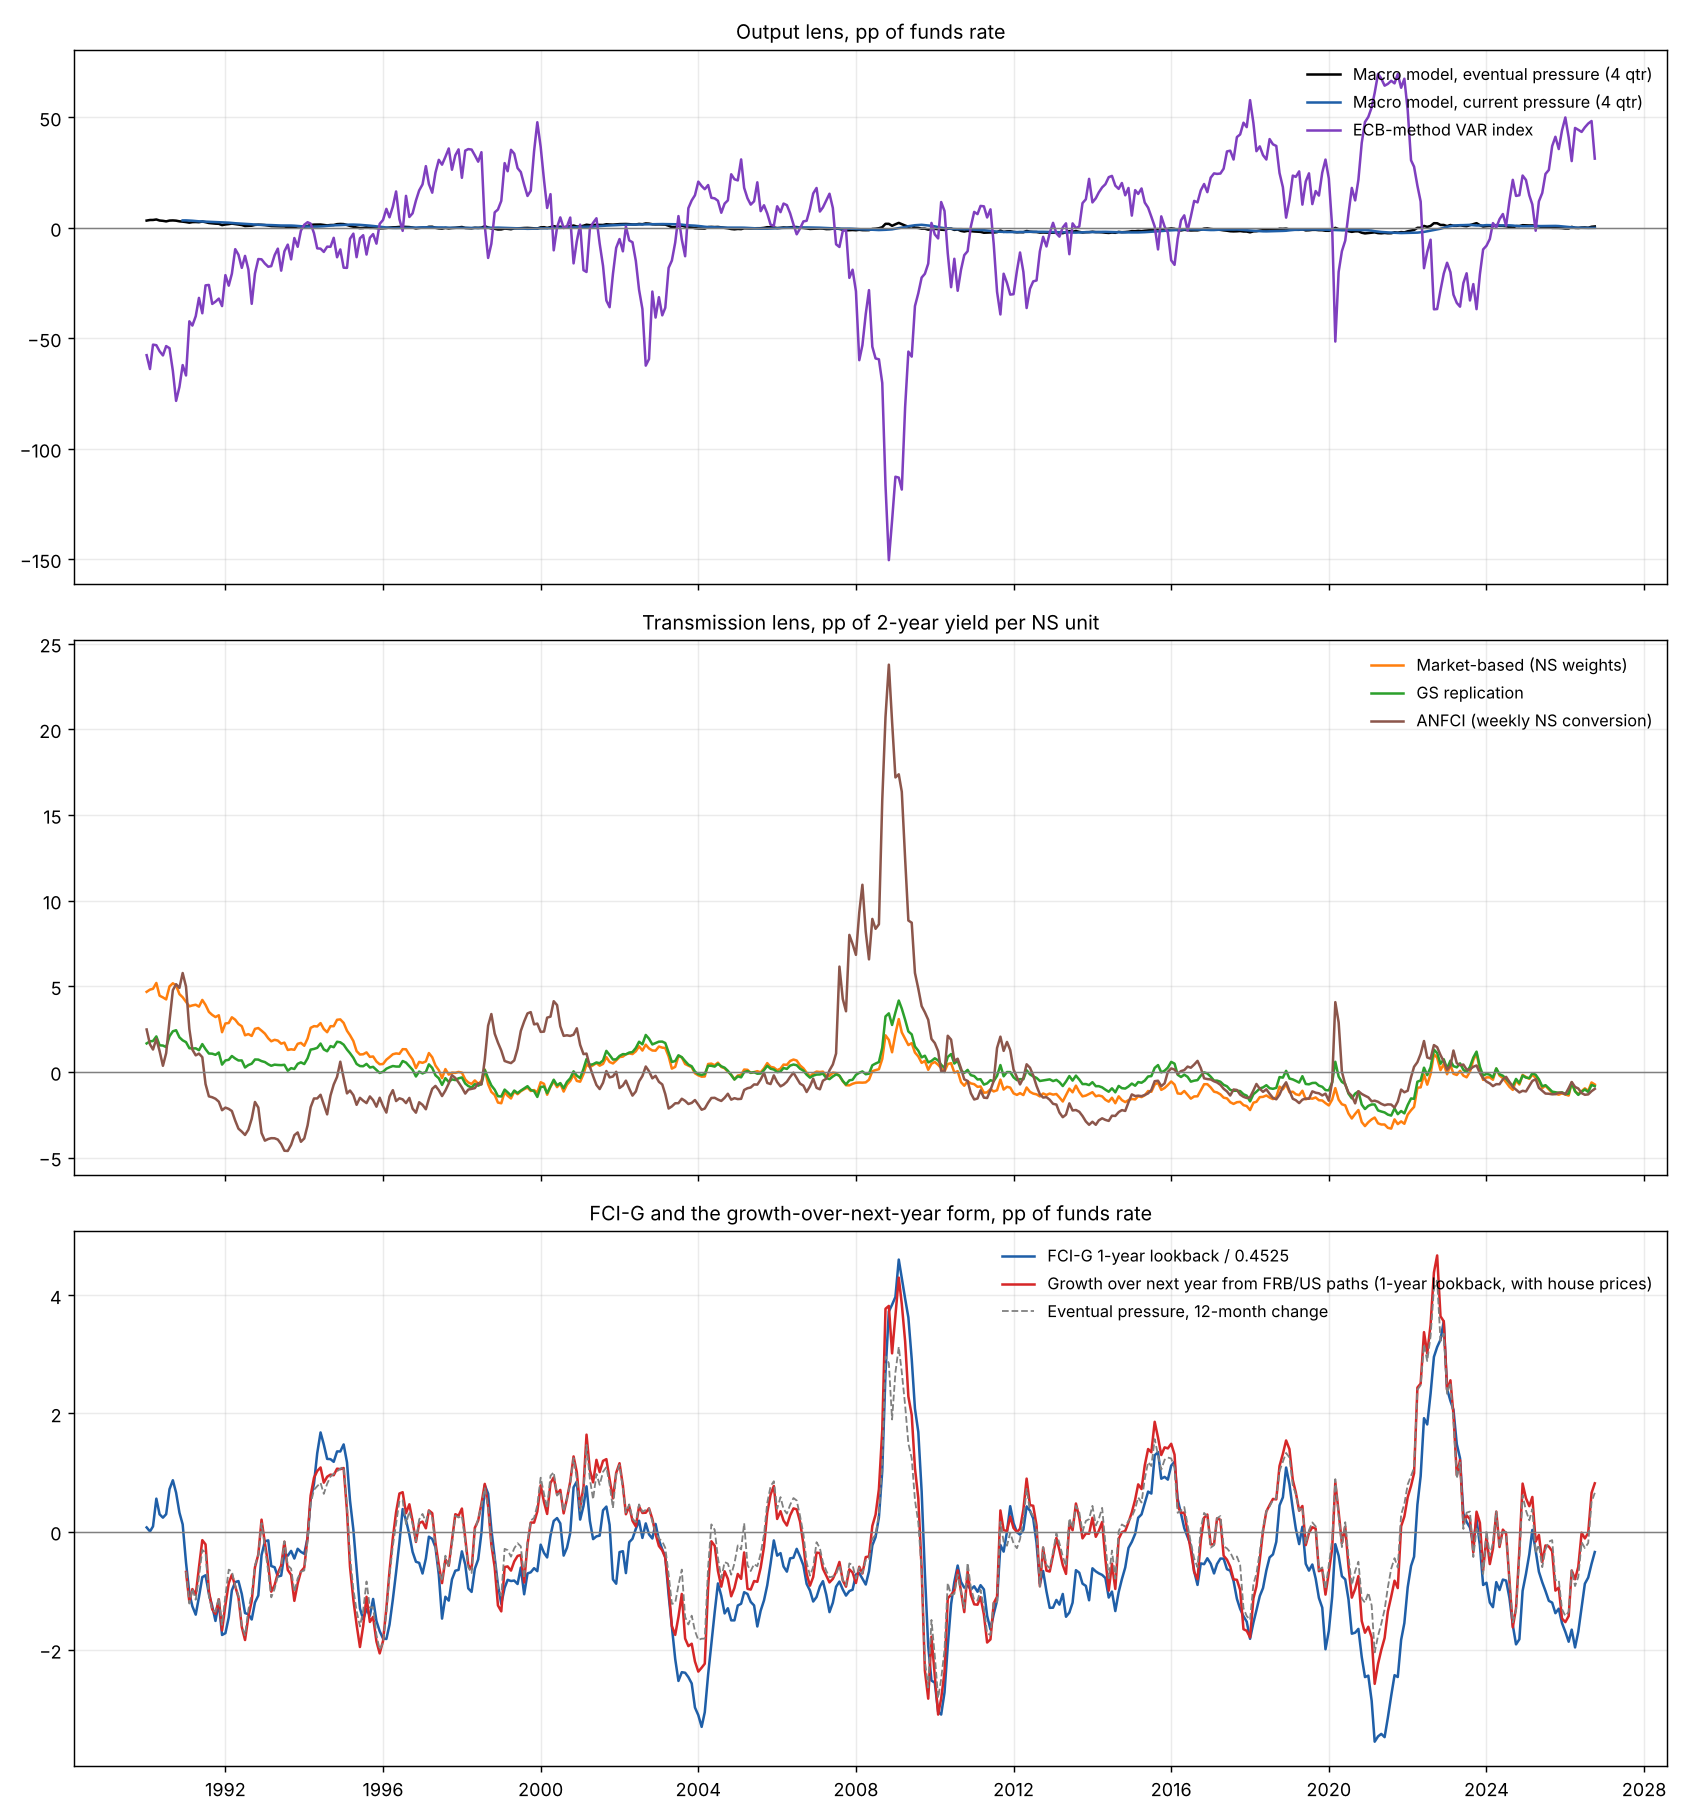
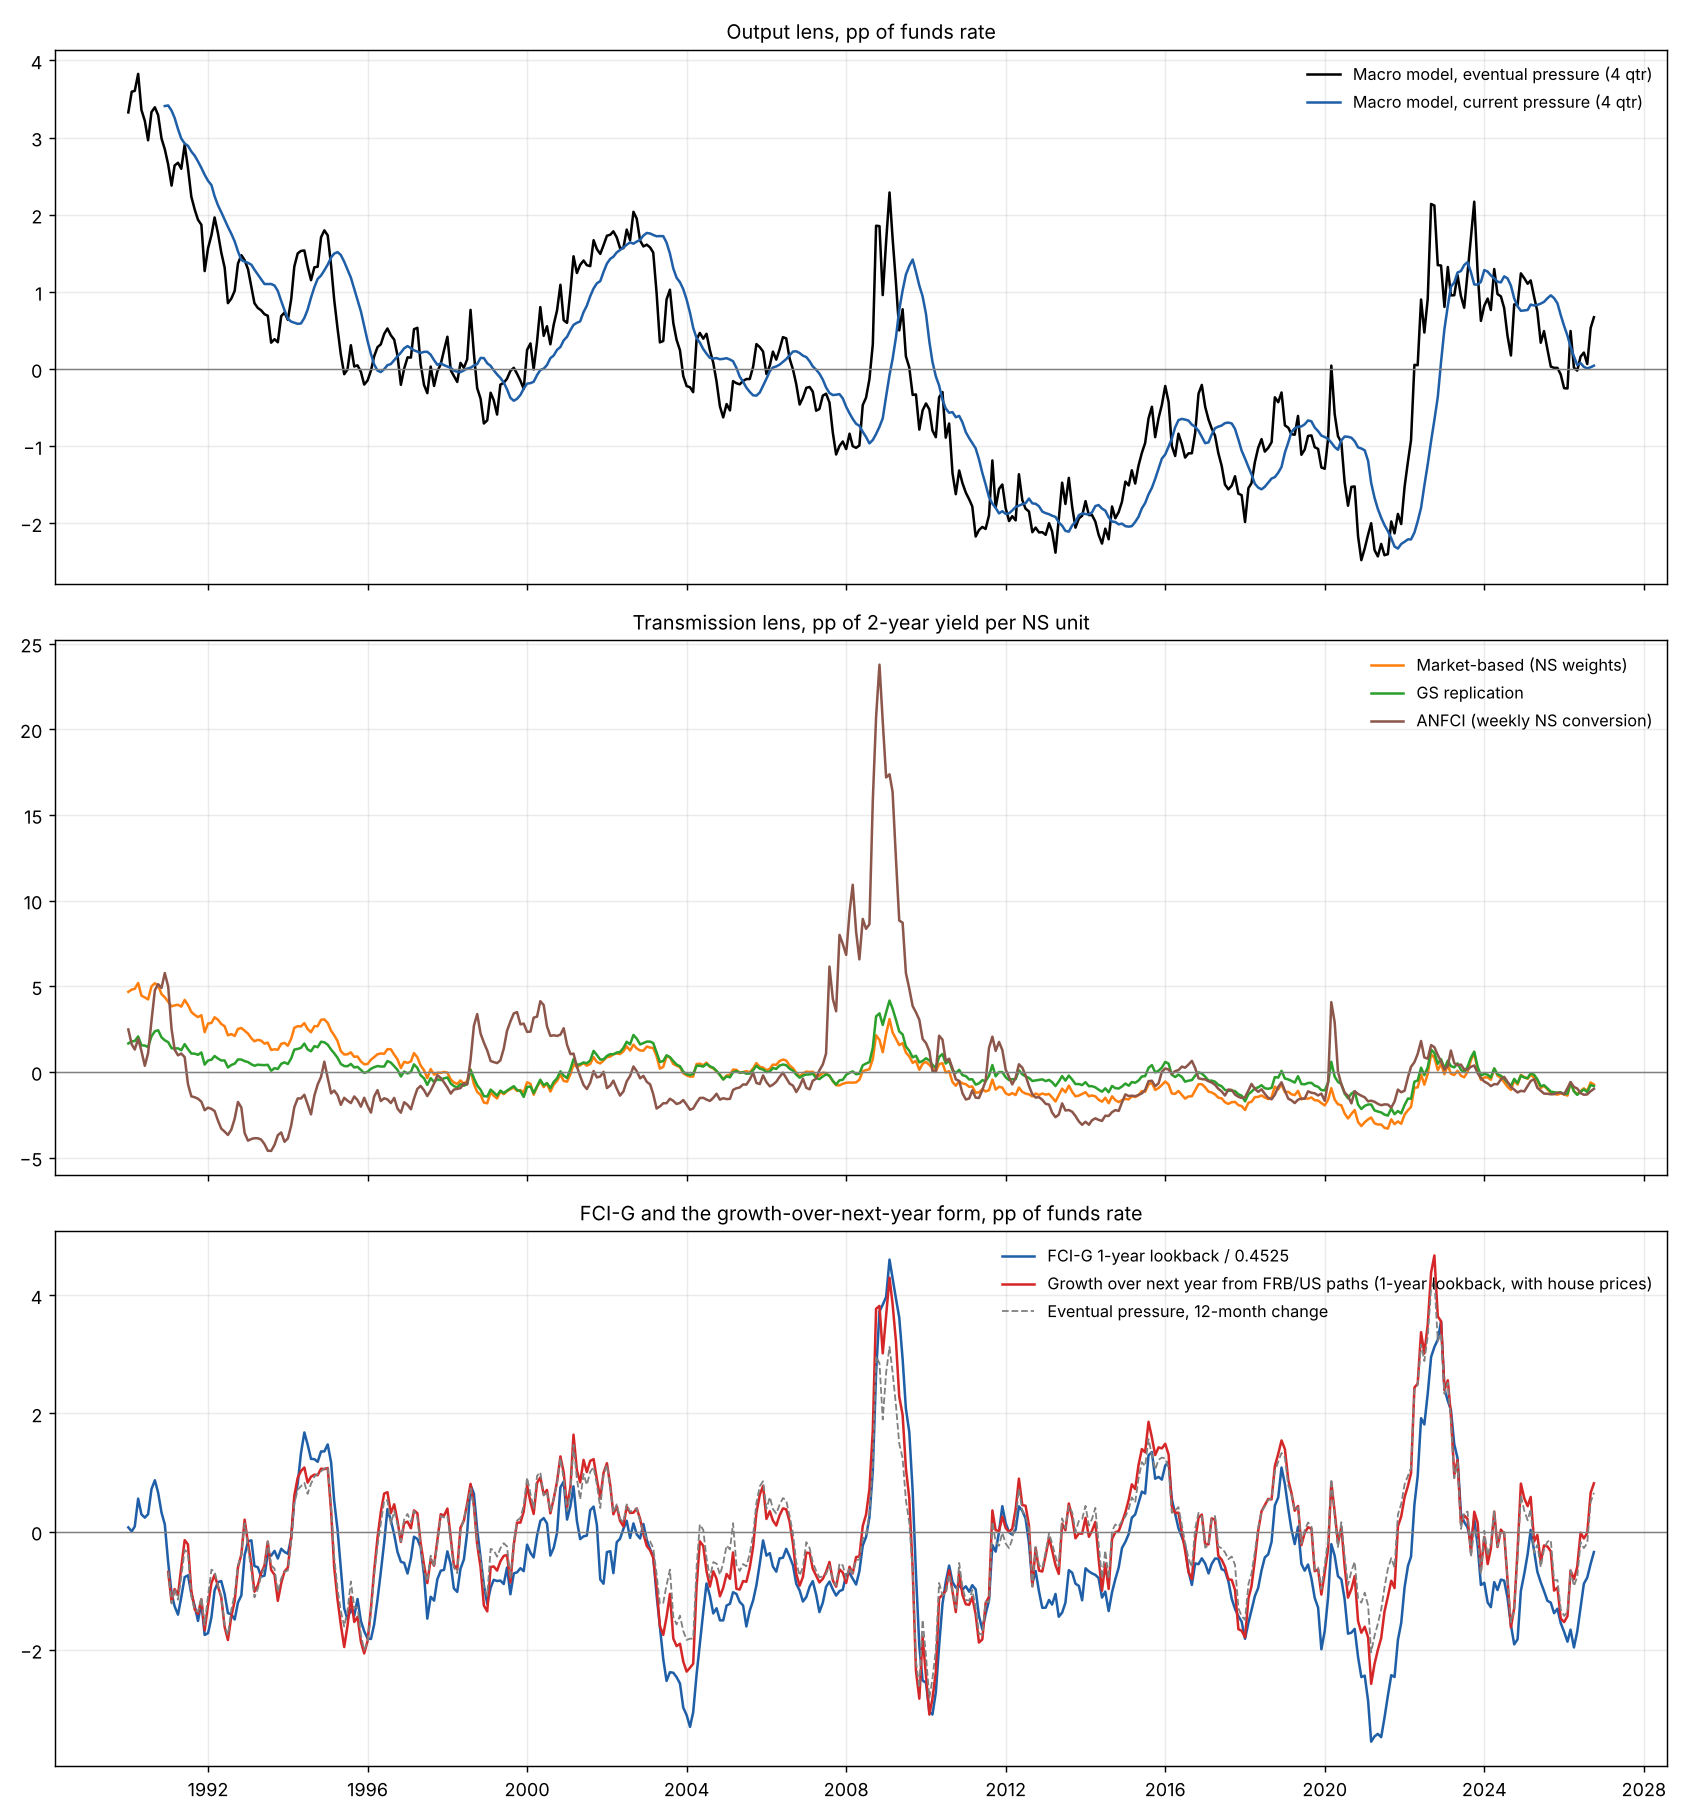
ECB-method index to text only; comparison updated; project memory
Claude-Session: https://claude.ai/code/session_019kTrQ64J9YbGMCvioBoMNo

diff --git a/experimental/fci_compare/compare_v3.py b/experimental/fci_compare/compare_v3.py
@@ -1,8 +1,9 @@
 """
 Comparison of the indexes specified in experimental/INDEX_QA.md (approved 29 Oct 2026). Monthly, 1990-2026 (each series on its own available sample).
 Units stated, not converted across lenses (answer 35): output lens in pp of funds rate; transmission lens in pp of the 2-year yield per NS unit.
-    output lens:        EP_4 (main), EP_4+HP, CP_4, CP_4+HP (macro_model_v3), GI_1yr+HP, GI_3yr+HP, FCI-G 1yr and 3yr (official / 0.4525, replication after 2026-08), MF-VAR (mf_var_us)
-    transmission lens:  MKT, MKT+Baa, GS, NFCI, ANFCI (transmission_v3); OFR FSI reported but its conversion failed (event-day response not different from zero)
+    output lens:        EP_4 (main), EP_4+HP, CP_4, CP_4+HP (macro_model_v3), GI_1yr+HP, GI_3yr+HP, FCI-G 1yr and 3yr (official / 0.4525, replication after 2026-08);
+                        the ECB-method index is discussed in the text only (answer 45), not compared here
+    transmission lens:  MKT, MKT+Baa (full and diagonal covariance), GS, NFCI, ANFCI (transmission_v3); OFR FSI reported but its conversion failed (event-day response not different from zero)
     other:              SF Fed proxy funds rate, 12-month changes from 2009
 Tables: (1) level and 12-month-change correlations among level indexes; (2) FCI-G (both lookbacks) against levels and 12-month changes (answer 15);
 (3) proxy funds rate; (4) gap test: static macro EP_4 minus static market MKT, monthly local projections on NS surprises (answer 32; units mixed, stated).
@@ -27,7 +28,6 @@ def rd(path):
 def main():
     mm = rd(os.path.join(ROOT, "experimental", "ms_fci", "macro_model_v3_monthly.csv"))
     tr = rd(os.path.join(HERE, "transmission_v3_monthly.csv"))
-    mf = rd(os.path.join(HERE, "mf_var_us_monthly.csv"))
     f3 = pd.read_csv(os.path.join(ROOT, "raw", "fed_monthly_3yr.csv"), parse_dates=["date"]).set_index("date").iloc[:, 0]; f3.index = f3.index.to_period("M")
     f1 = pd.read_csv(os.path.join(ROOT, "raw", "fed_monthly_1yr.csv"), parse_dates=["date"]).set_index("date").iloc[:, 0]; f1.index = f1.index.to_period("M")
     rep = pd.read_csv(os.path.join(ROOT, "fcig_replication_monthly.csv")); rep.index = pd.PeriodIndex(rep["month"], freq="M")
@@ -35,10 +35,8 @@ def main():
     prox = pd.read_excel(os.path.join(ROOT, "raw", "proxy-funds-rate-data.xlsx"), sheet_name="Weekly", skiprows=1, names=["date", "ffr", "proxy"])
     prox["date"] = pd.to_datetime(prox.date); prox = prox.set_index("date").proxy.resample("ME").last(); prox.index = prox.index.to_period("M")
     S = pd.DataFrame({"EP_4": mm["EP_4"], "EP_4+HP": mm["EP_4+HP"], "CP_4": mm["CP_4"], "CP_4+HP": mm["CP_4+HP"], "GI_1yr+HP": mm["GI_1yr+HP"], "GI_3yr+HP": mm["GI_3yr+HP"],
-                      "FCI-G 1yr": f1 / 0.4525, "FCI-G 3yr": f3 / 0.4525, "MF-VAR": mf.iloc[:, 0], "MF-VAR+HP": mf.iloc[:, 2],
-                      "MKT": tr["MKT"], "MKT+Baa": tr["MKT+Baa"], "GS": tr["GS"], "NFCI": tr["NFCI"], "ANFCI": tr["ANFCI"], "PROXY": prox}).loc["1990-01":"2026-10"]
-    S["MF-VAR"] = S["MF-VAR"] - S["MF-VAR"].mean(); S["MF-VAR+HP"] = S["MF-VAR+HP"] - S["MF-VAR+HP"].mean()
-    lev = ["EP_4", "EP_4+HP", "CP_4", "MF-VAR", "MKT", "MKT+Baa", "GS", "ANFCI", "NFCI"]
+                      "FCI-G 1yr": f1 / 0.4525, "FCI-G 3yr": f3 / 0.4525,                       "MKT": tr["MKT"], "MKT+Baa": tr["MKT+Baa"], "MKT+Baa diag": tr["MKT+Baa diag"], "GS": tr["GS"], "NFCI": tr["NFCI"], "ANFCI": tr["ANFCI"], "PROXY": prox}).loc["1990-01":"2026-10"]
+    lev = ["EP_4", "EP_4+HP", "CP_4", "MKT", "MKT+Baa", "MKT+Baa diag", "GS", "ANFCI", "NFCI"]   # ECB-method index: text only (answer 45)
     pd.set_option("display.width", 220)
     print("sd and latest (output lens: pp funds rate; transmission lens: pp 2-year yield):")
     print(pd.DataFrame({"sd": S.std(), "latest": S.ffill().iloc[-1]}).round(2).T.to_string())
@@ -77,8 +75,8 @@ def main():
     import matplotlib.pyplot as plt
     fig, axes = plt.subplots(3, 1, figsize=(13, 14), sharex=True)
     t = S.index.to_timestamp()
-    for n, c in (("EP_4", "black"), ("CP_4", "#1f5fa8"), ("MF-VAR", "#7f3fbf")):
-        axes[0].plot(t, S[n], color=c, lw=1.4, label={"EP_4": "Macro model, eventual pressure (4 qtr)", "CP_4": "Macro model, current pressure (4 qtr)", "MF-VAR": "ECB-method VAR index"}[n])
+    for n, c in (("EP_4", "black"), ("CP_4", "#1f5fa8")):
+        axes[0].plot(t, S[n], color=c, lw=1.4, label={"EP_4": "Macro model, eventual pressure (4 qtr)", "CP_4": "Macro model, current pressure (4 qtr)"}[n])
     axes[0].set_title("Output lens, pp of funds rate", fontsize=11)
     for n, c in (("MKT", "#ff7f0e"), ("GS", "#2ca02c"), ("ANFCI", "#8c564b")):
         axes[1].plot(t, S[n], color=c, lw=1.4, label={"MKT": "Market-based (NS weights)", "GS": "GS replication", "ANFCI": "ANFCI (weekly NS conversion)"}[n])

diff --git a/experimental/PROJECT_MEMORY.md b/experimental/PROJECT_MEMORY.md
@@ -1,4 +1,4 @@
-# Project memory: financial conditions indexes in funds-rate equivalents (state as of 27 Oct 2026)
+# Project memory: financial conditions indexes in funds-rate equivalents (state as of 29 Oct 2026)
 
 Purpose of this file: a compact record of what was decided, built and found, so the work can be picked up later. Detail lives in the files named below. Branch history: `ccr-3a1fbe39-so6omu`.
 
@@ -34,6 +34,30 @@ A short note (plan: `experimental/path_fci/NOTE_PLAN.md`) that expresses widely 
 - Distributed-lag macro index (`ms_fci/macro_model_dl.py`): smoother, lags the static index; "not yet transmitted" peaked 2.8 pp in Sep 2022; growth-impulse form correlates 0.87 / 0.83 with official FCI-G 1yr / 3yr.
 - Response profiles (`path_fci/psi_by_horizon.py`): impact readings agree (gap 0.02); delayed gap +0.75 at 12 months, +1.83 at 24 (implied by profiles; equals the gap LP); equities rebound, dollar and 10-year keep rising; proportionality not rejected (low power); robust to GSS, pure-policy events, excluding crises. IP rises after hawkish surprises, so theta from responses is uninformative.
 - Approximate US ECB MF-FCI (`fci_compare/mffci_us.py`): about 1.9 index units per 1 pp parallel move (its "policy-rate scale" is not a funds-rate equivalent); reads policy surprises like the market index (gap 0.01); correlations depend on unreported CAPE/dollar weights.
+
+## 3d. 28-29 Oct 2026: index definitions settled by Q&A (`experimental/INDEX_QA.md`, answers 1-45; read this first)
+- **Approved specification:** INDEX_QA "Specification for approval", with current pressure restated in demeaned levels.
+  - *Output lens* (funds-rate pp; FRB/US old design: VAR expectations, persistent shifts, policy rate direct 0.009 with its small effect emphasized):
+    - eventual pressure EP_4 (main), robustness EP_8 and EP_12;
+    - current pressure CP_K, a distributed lag on demeaned levels (K = 4 main; 8 and 12 over G(K));
+    - growth over the next year (FCI-G form, 1- and 3-year lookbacks);
+    - FCI-G / 0.4525, compared in levels and with 12-month changes.
+  - *Transmission lens* (pp of the 2-year per NS unit, not rescaled):
+    - market index (NS GLS weights, S&P/DXY window moves applied to CAPE and real broad dollar levels; static only);
+    - robustness with the Baa yield, full and diagonal covariance;
+    - GS x 0.945/0.98;
+    - NFCI/ANFCI by weekly NS response; OFR FSI by event-day response (failed: response not different from zero).
+  - Cross-lens comparisons are made as is, with units stated.
+- **Built:** `ms_fci/macro_model_v3.py`, `fci_compare/transmission_v3.py`, `fci_compare/compare_v3.py` (+ `.log`).
+- **FRB/US with model-consistent expectations** (`ms_fci/frbus_mce.py`, converged at 240/300 quarters): weights 2-3x larger. The user chose VAR-expectations weights.
+- **ECB-method index on our data** (`fci_compare/mf_var_us*.py`, `VAR_SPEC_RESEARCH.md`):
+  - Funds-rate yardsticks fail on 1990-2025: wrong sign, weak NS instruments.
+  - The 1973 recursive VAR works, but the index is Baa-spread dominated (a credit-stress index).
+  - Decision: text only, for now.
+- **LP exploration** (`lp_weights/RESULTS.md`):
+  - One-at-a-time LP-IV = inverse-response (market-type) weights.
+  - Unemployment falls after hawkish NS surprises in 1994-2025 monthly data.
+  - The long-sample recursive LP yardstick: -0.63% output at 12 months (FRB/US -0.45%).
 
 ## 4. Literature state (details in NOTE_PLAN.md section 7 and `experimental/path_fci/lit/`)
 No source found that converts FCI-G, NFCI and GS to funds-rate equivalents and compares them. Closest: Arnaut-Bauer (FRBSF EL 2024-07), Sack-Swanson (Brookings, Oct 2023; FCI-G vs 2-year yield), Beaton-Lalonde-Luu (2009), Aramonte-Rosen-Schindler (2013), Chicago Fed Letter 498 (Aug 2024). Verified FOMC quotes (62) in `lit/lit_fomc_quotes.md`. Still unread: BKM Handbook text (author covers), NBER WP 34325, FCI-star and multi-asset papers, Goldman 2015 original.

diff --git a/experimental/INDEX_QA.md b/experimental/INDEX_QA.md
@@ -322,3 +322,5 @@ Script: `fci_compare/mf_var_us_gk.py`.
   - Same-month response to an NS tightening: -3.1 (se 2.4), i.e. it reads tightening as loosening, because the Baa spread narrows and the dollar has a negative weight.
   - The 6-lag version is similar.
   - Decision pending.
+
+**A45 (29 Oct).** For now the ECB-method index is discussed in the text only (literature section), not in the comparison; to be reconsidered later. `compare_v3.py` updated: ECB-method index removed; Baa diagonal market version added.
